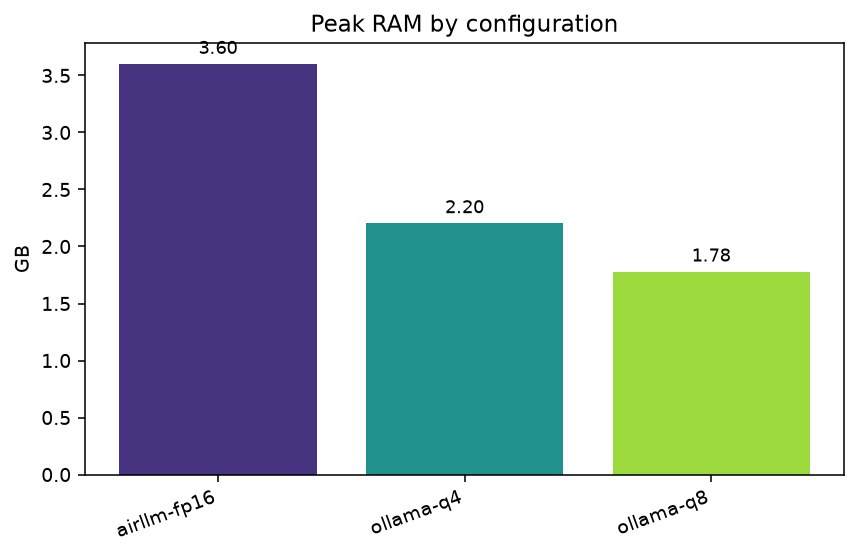
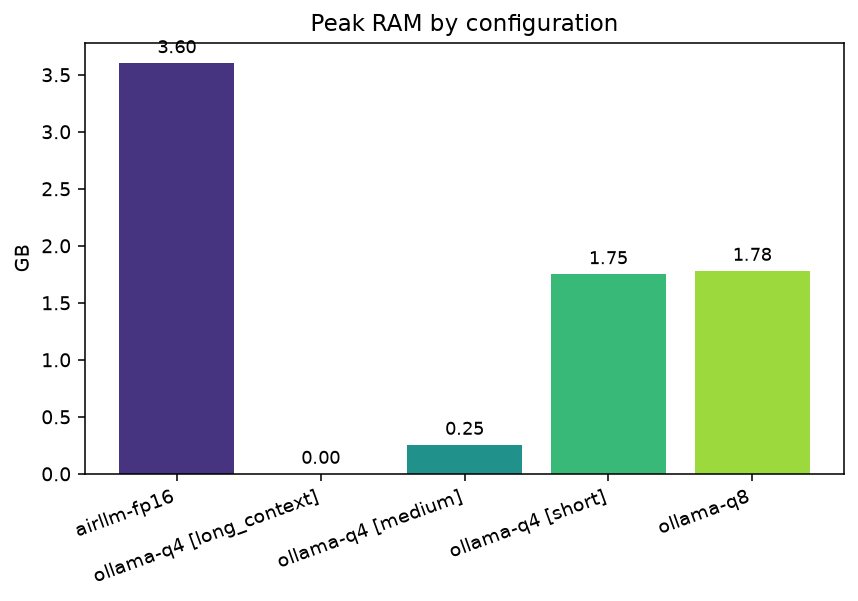
Parameter study (TTFT vs input length) results + run screenshots

diff --git a/results/summary_table.md b/results/summary_table.md
@@ -2,5 +2,7 @@
 |---|---|---|---|---|---|---|---|---|---|
 | airllm-fp16 | — | fp16 | 129.48 | 144190.5 | 0.01 | 3.6 | 0.0 | 12.49 | ok |
 | baseline | — | fp16 | 0.00 | 0.0 | 0.00 | 0.0 | 0.0 | 0.00 | FAILED — Process killed by OS during naive in-RAM load (hard OOM) |
-| ollama-q4 | — | q4 | 39.25 | 234.6 | 4.49 | 2.2 | 0.0 | 0.18 | ok |
+| ollama-q4 | long_context | q4 | 57.06 | 286.6 | 3.52 | 0.0 | 0.0 | 0.37 | ok |
+| ollama-q4 | medium | q4 | 3.83 | 271.3 | 3.71 | 0.3 | 0.0 | 0.20 | ok |
+| ollama-q4 | short | q4 | 44.44 | 245.1 | 4.29 | 1.8 | 0.0 | 0.20 | ok |
 | ollama-q8 | — | q8 | 272.43 | 30546.0 | 0.03 | 1.8 | 0.0 | 3.55 | ok |